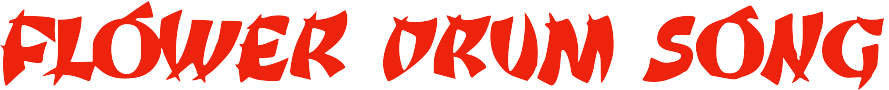
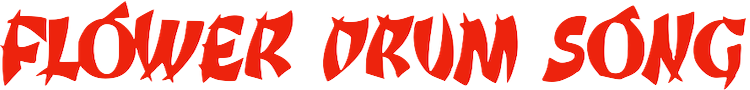
160625

diff --git a/Assets/3penny.html b/Assets/3penny.html
@@ -59,7 +59,7 @@
 </tr>
 <tr><td width="1350px"><b>Cast:</b> The Lewis-Ruth Band</td></tr>
 <tr><td width="1350px"><b>Year:</b> 1929&nbsp;&nbsp;&nbsp;&nbsp;&nbsp;&nbsp;<b>Language:</b> ♫&nbsp;&nbsp;&nbsp;&nbsp;&nbsp;&nbsp;<b>Format:</b> mp3&nbsp;&nbsp;&nbsp;&nbsp;&nbsp;&nbsp;<b>Bitrate:</b> 256kb/s</td></tr>
-<tr><td width="1350px"><b>Release Title:</b> エリザベート</td></tr>
+<tr><td width="1350px"><b>Release Title:</b> </td></tr>
 <tr><td width="1350px"><b>Notes:</b> </td></tr>
 </table>
 <p></p>
@@ -91,7 +91,7 @@
 </tr>
 <tr><td width="1350px"><b>Cast:</b> Theo Mackeben</td></tr>
 <tr><td width="1350px"><b>Year:</b> 1930&nbsp;&nbsp;&nbsp;&nbsp;&nbsp;&nbsp;<b>Language:</b> ♫&nbsp;&nbsp;&nbsp;&nbsp;&nbsp;&nbsp;<b>Format:</b> mp3&nbsp;&nbsp;&nbsp;&nbsp;&nbsp;&nbsp;<b>Bitrate:</b> 256kb/s</td></tr>
-<tr><td width="1350px"><b>Release Title:</b> エリザベート</td></tr>
+<tr><td width="1350px"><b>Release Title:</b> </td></tr>
 <tr><td width="1350px"><b>Notes:</b> </td></tr>
 </table>
 <p></p>

diff --git a/index.html b/index.html
@@ -7,7 +7,7 @@
 </head>
 <body background="Assets/images/misc/bg.png" oncopy="return false;" oncut="return false;" onpaste="return false;" oncontextmenu="return false;">
 <div id="main" class="noselect">
-<center><img src="Assets/images/misc/logo.png" height="375px">
+<center><img src="Assets/images/misc/logo.png" height="325px">
 <p>
 <center><a href="Assets/main.html"><img src="Assets/images/misc/enter.png"></a></center>
 <p>
